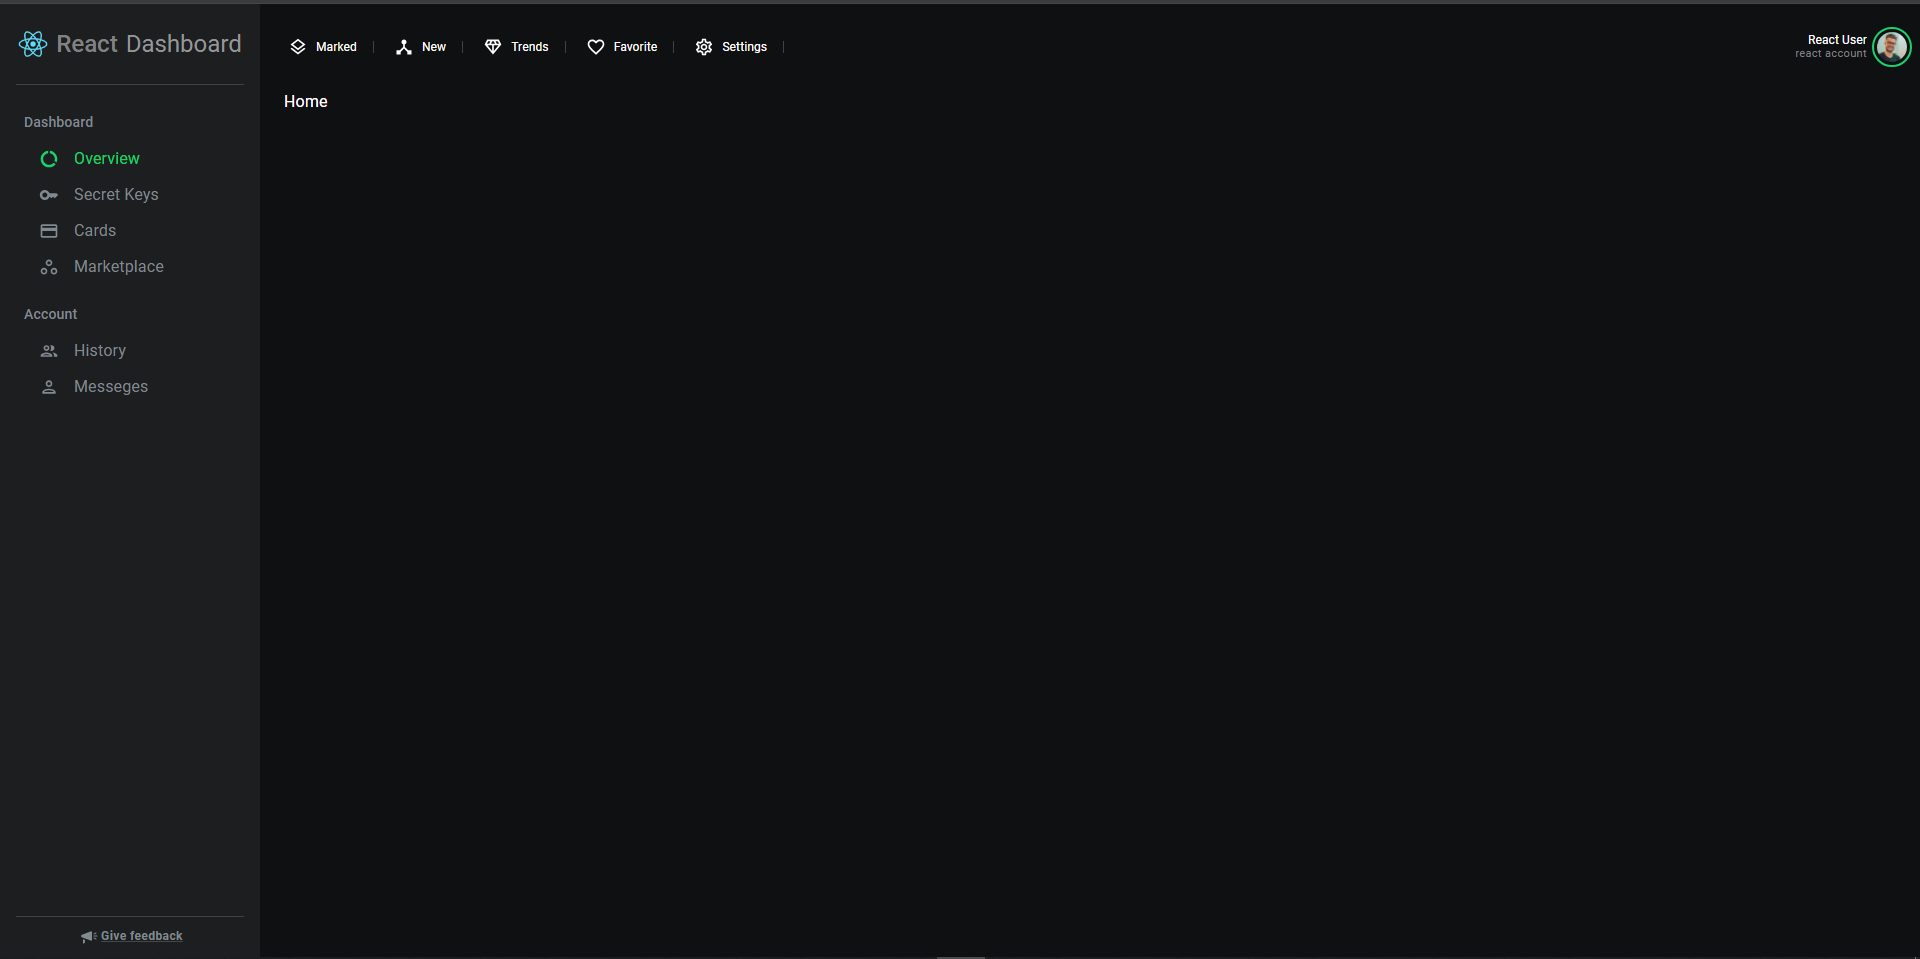
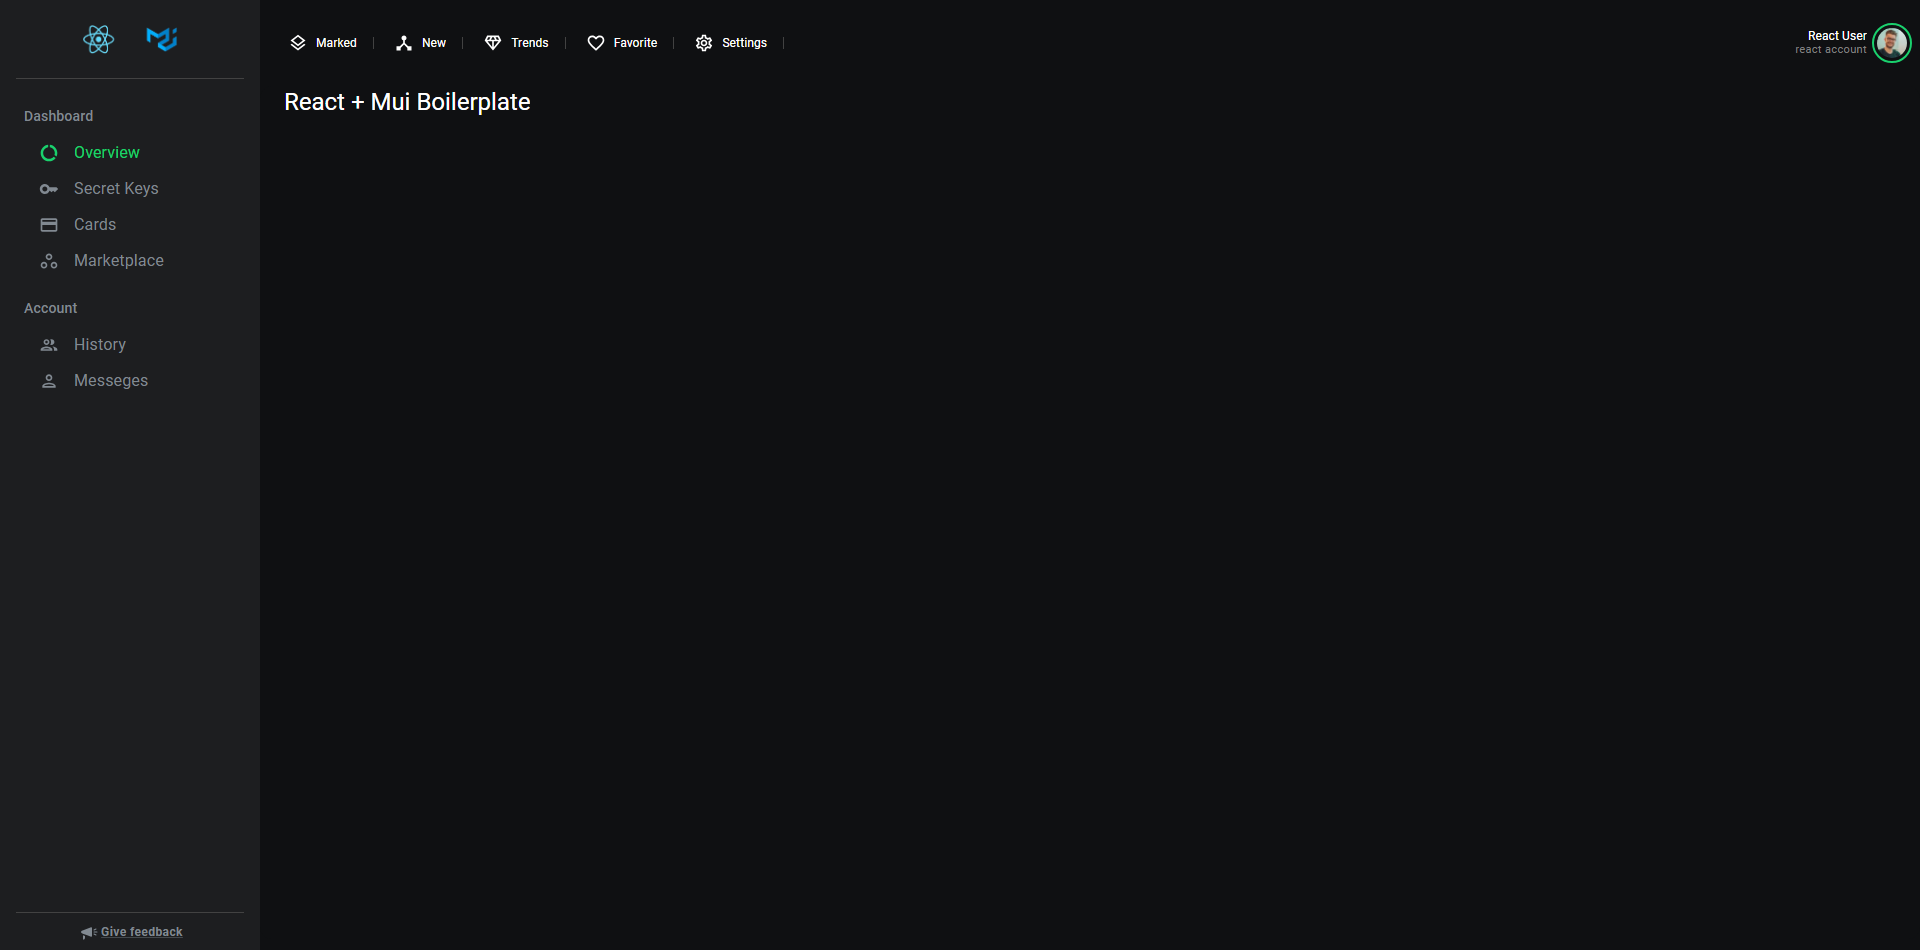
Several changes and Update README

diff --git a/src/layouts/Sidebar.jsx b/src/layouts/Sidebar.jsx
@@ -37,7 +37,7 @@ const Sidebar = () => {
                     to='/'
                     sx={{ textDecoration: 'none', color: 'text.primary', py: 3 }}>
                     <Image alt='#logo' name='logo.png' sx={{ height: '30px' }} />
-                    <Typography variant='h5' fontWeight={500} sx={{ ml: 1, color: '#808282' }}>
+                    {/* <Typography variant='h5' fontWeight={500} sx={{ ml: 1, color: '#808282' }}>
                         React
                     </Typography>
                     <Typography
@@ -46,7 +46,7 @@ const Sidebar = () => {
                         color='text.tertiary'
                         sx={{ ml: 1, color: '#949697' }}>
                         Dashboard
-                    </Typography>
+                    </Typography> */}
                 </Box>
 
                 <Divider variant='middle' />

diff --git a/src/layouts/Navbar.jsx b/src/layouts/Navbar.jsx
@@ -39,7 +39,7 @@ export default function Navbar(props) {
         () => ({
             firstName: 'React',
             lastName: 'User',
-            email: 'example@oreact.com',
+            email: 'example@react.com',
             role: 'react',
         }),
         []
@@ -265,7 +265,7 @@ export default function Navbar(props) {
                                             href='#'
                                             color='primary.main'
                                             display='block'>
-                                            My OAuth account
+                                            My Account
                                         </Typography>
                                         <Typography
                                             variant='caption'

diff --git a/src/pages/Home.jsx b/src/pages/Home.jsx
@@ -1,7 +1,12 @@
+import { Box, Typography } from '@mui/material';
 import React from 'react';
 
 const Home = () => {
-    return <div>Home</div>;
+    return (
+        <Box>
+            <Typography variant='h5'>React + Mui Boilerplate</Typography>
+        </Box>
+    );
 };
 
 export default Home;

diff --git a/README.md b/README.md
@@ -4,7 +4,7 @@ This Repo contains essential components that are required for fast startup of yo
 
 ### Overview
 
-![preview](/public/images/overview.png)
+![Alt text](/public/images/overview.png)
 
 # Getting Started with Create React App
 
